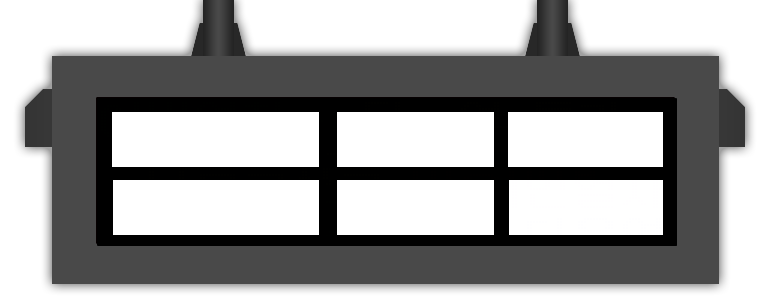
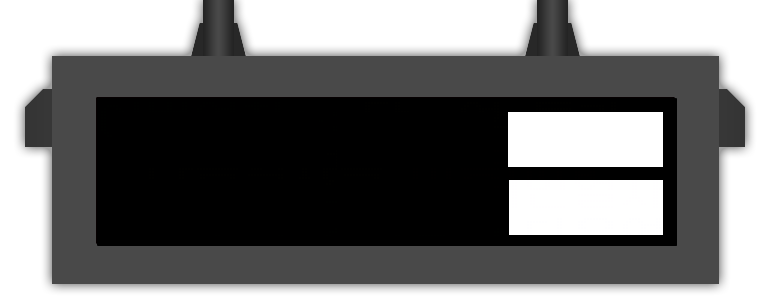
asdf

Changed region(s): [[0.1247, 0.36, 0.6545, 0.57], [0.1247, 0.6, 0.6545, 0.81]]

diff --git a/subway_test.js b/subway_test.js
@@ -1,7 +1,7 @@
 const { loadImage, registerFont, createCanvas, Image } = require('canvas');
 const whoMadeIt = "williameom";
 
-async function LED() {
+async function LED(debugParm) {
 
     var img = await loadImage('/bot/led.png');
     var canvas = createCanvas(img.width, img.height);
@@ -10,18 +10,110 @@ async function LED() {
     
     var ctx = canvas.getContext('2d');
     ctx.font = "36px DunGeunMo";
-    ctx.drawImage(img, img.width, img.height)
+    ctx.drawImage(img, img.width, img.height);
 
 
-    async function where(toGo) {
+    async function where(toGo) { // 행선지가 어디인가?
+        if(toGo.length == 3) { // 207, 55
+            var fstxt = toGo.substring(0, 0);
+            var setxt = toGo.substring(1, 1);
+            var thtxt = toGo.substring(2, 2);
+            var fntxt = fstxt + ' ' + setxt + ' ' + thtxt + ' 행';
+            const {
+                actualBoundingBoxLeft,
+                actualBoundingBoxRight,
+                emHeightAscent: titleHeight,
+                actualBoundingBoxAscent,
+                actualBoundingBoxDescent,
+                emHeightDescent,
+            } = ctx.measureText(fntxt);
+            const titlePosition = {
+                x: 214,
+                y: 140,
+            };
+            // - ((textPaint.descent() + textPaint.ascent()) / 2
+            ctx.fillStyle = "#fb8d19";
+            ctx.textAlign = "center";
+            ctx.fillText(title, titlePosition.x, titlePosition.y);
+            ctx.fillText(title, titlePosition.x, titlePosition.y + 65);
 
+        } else if(toGo.length == 2){ // 214, 205
+            var fstxt = toGo.substring(0,0);
+            var setxt = toGo.substring(1,1);
+            var fntxt = fstxt + ' ' + setxt + ' 행';
+
+            const {
+                actualBoundingBoxLeft,
+                actualBoundingBoxRight,
+                emHeightAscent: titleHeight,
+                actualBoundingBoxAscent,
+                actualBoundingBoxDescent,
+                emHeightDescent,
+            } = ctx.measureText(fntxt);
+            const titlePosition = {
+                x: 214,
+                y: 140,
+            };
+            // - ((textPaint.descent() + textPaint.ascent()) / 2
+            ctx.fillStyle = "#fb8d19";
+            ctx.textAlign = "center";
+            ctx.fillText(title, titlePosition.x, titlePosition.y);
+            ctx.fillText(title, titlePosition.x, titlePosition.y + 65);
+
+        }
     }
 
-    async function stn(what) {
+    async function stn(what) { // 어기서 출발했는가?
+        if (what.length == 3) { // 207, 55
+            var fstxt = what.substring(0, 0);
+            var setxt = what.substring(1, 1);
+            var thtxt = what.substring(2, 2);
+            var fntxt = fstxt + ' ' + setxt + ' ' + thtxt + ' 행';
+            const {
+                actualBoundingBoxLeft,
+                actualBoundingBoxRight,
+                emHeightAscent: titleHeight,
+                actualBoundingBoxAscent,
+                actualBoundingBoxDescent,
+                emHeightDescent,
+            } = ctx.measureText(fntxt);
+            const titlePosition = {
+                x: 412,
+                y: 140,
+            };
+            // - ((textPaint.descent() + textPaint.ascent()) / 2
+            ctx.fillStyle = "#5C6F0E";
+            ctx.textAlign = "center";
+            ctx.fillText(title, titlePosition.x, titlePosition.y);
+            ctx.fillText(title, titlePosition.x, titlePosition.y + 65);
 
+        } else if (what.length == 2) { // 214, 205
+            var fstxt = what.substring(0, 0);
+            var setxt = what.substring(1, 1);
+            var fntxt = fstxt + ' ' + setxt + ' 행';
+
+            const {
+                actualBoundingBoxLeft,
+                actualBoundingBoxRight,
+                emHeightAscent: titleHeight,
+                actualBoundingBoxAscent,
+                actualBoundingBoxDescent,
+                emHeightDescent,
+            } = ctx.measureText(fntxt);
+            const titlePosition = {
+                x: 412,
+                y: 140,
+            };
+            // - ((textPaint.descent() + textPaint.ascent()) / 2
+            ctx.fillStyle = "#5C6F0E";
+            ctx.textAlign = "center";
+            ctx.fillText(title, titlePosition.x, titlePosition.y);
+            ctx.fillText(title, titlePosition.x, titlePosition.y + 65);
+
+        }
     }
 
-    async function stats(idk) {
+    async function stats(idk) { // 도착, 출발, 접근
         var arrive = await loadImage('/bot/arrival.png');
         var depart = await loadImage('/bot/depart.png');
         var closer = await loadImage('/bot/close.png');
